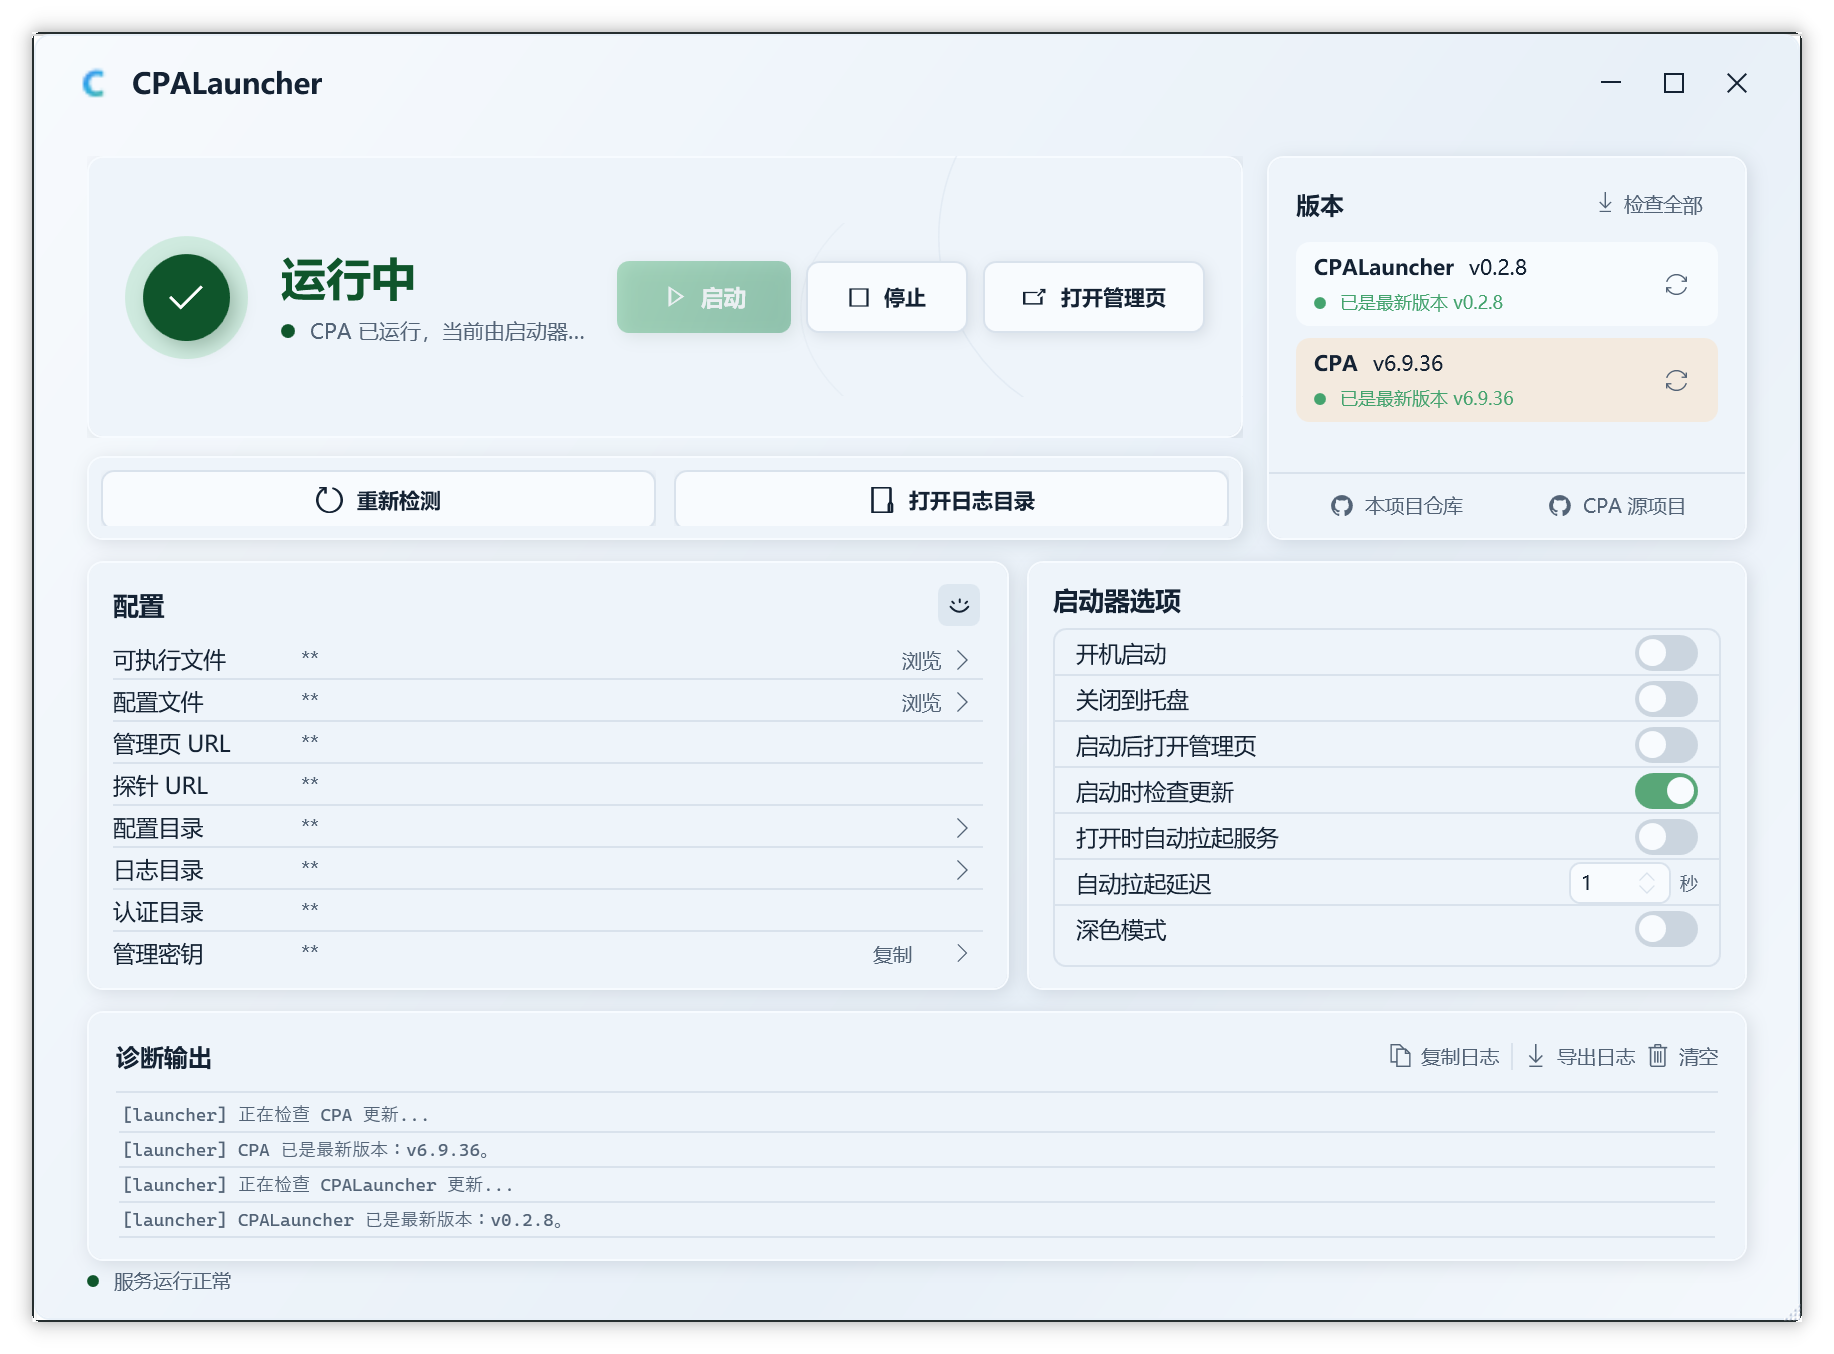
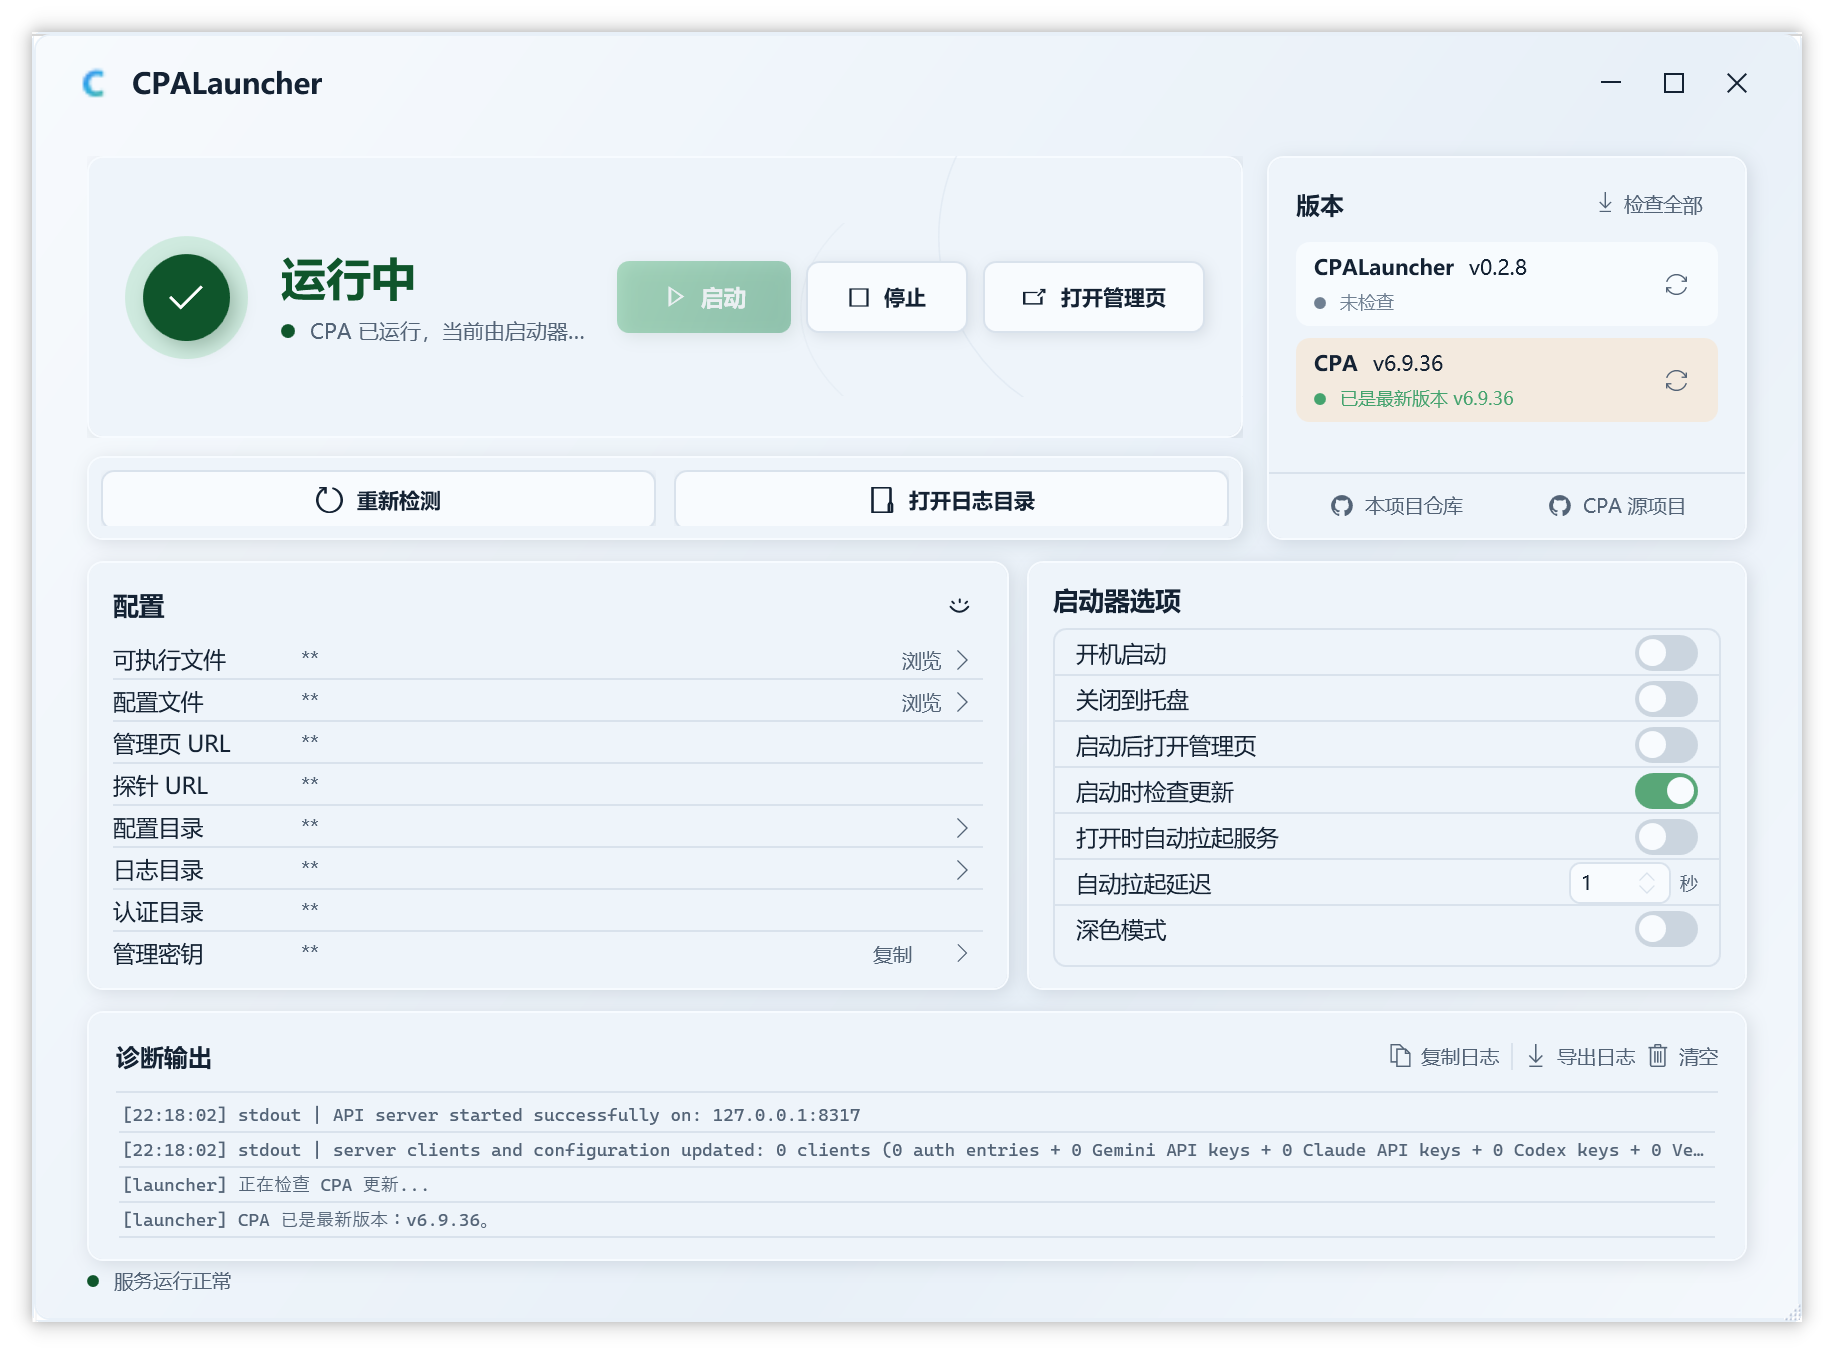
Prepare v0.2.9 release

diff --git a/src/CPALauncher.Wpf/Views/SetupWizardWindow.xaml b/src/CPALauncher.Wpf/Views/SetupWizardWindow.xaml
@@ -11,7 +11,9 @@
            AllowsTransparency="True"
            UseLayoutRounding="True"
            SnapsToDevicePixels="True"
-           Background="Transparent">
+           Background="Transparent"
+           BorderBrush="{DynamicResource WizardWindowEdgeBrush}"
+           BorderThickness="1">
 
     <shell:WindowChrome.WindowChrome>
         <shell:WindowChrome CaptionHeight="0"

diff --git a/src/CPALauncher.Wpf/Views/MainWindow.xaml b/src/CPALauncher.Wpf/Views/MainWindow.xaml
@@ -14,6 +14,8 @@
            UseLayoutRounding="True"
            SnapsToDevicePixels="True"
            Background="Transparent"
+           BorderBrush="{DynamicResource WindowEdgeBrush}"
+           BorderThickness="1"
            AllowDrop="True"
            DragEnter="OnDragEnter"
            DragOver="OnDragOver"
